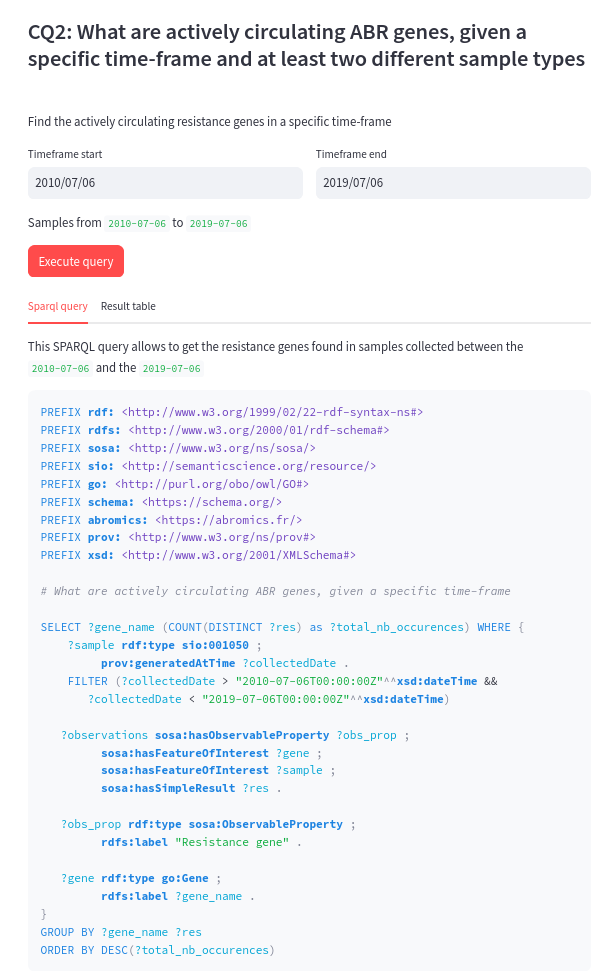
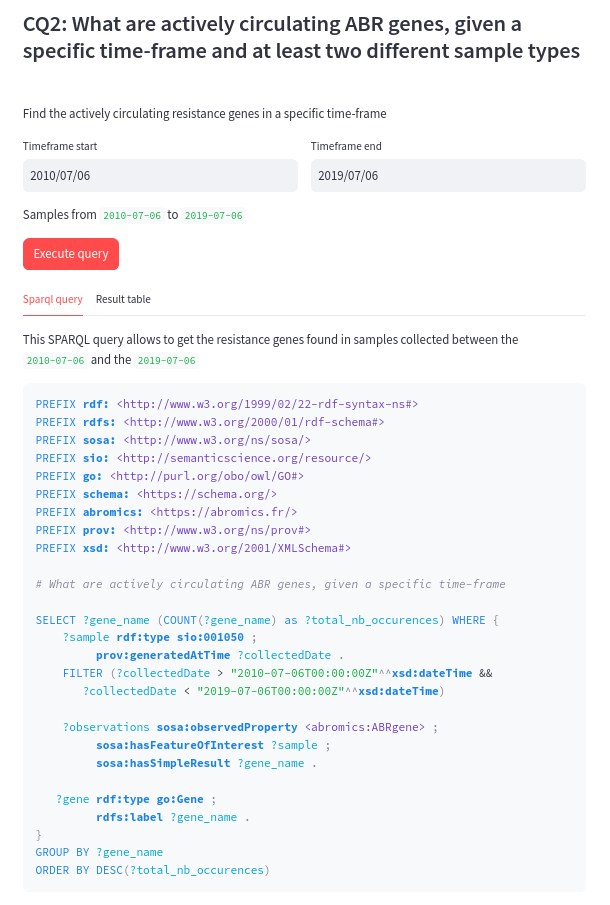
build: fixing all the images and the queries in the app to reflect the queries stored in the queries directory

Changed region(s): [[0.0311, 0.0, 0.9656, 0.9901]]

diff --git a/src/app.py b/src/app.py
@@ -119,19 +119,19 @@ query1 = f"""
     # CQ1: What are the most represented antibiotic resistance genes in a specific geographical region of interest ?
     
     SELECT ?gene_name ?location_name (COUNT(?gene_name) as ?count) WHERE {{
+
         ?sample rdf:type sio:001050 ;
             schema:identifier ?sample_id ;
             prov:atLocation ?location .
-    
-        ?obs_prop rdf:type sosa:ObservableProperty ;
-            rdfs:label "Resistance gene" . 
-    
-        ?observations sosa:hasObservableProperty ?obs_prop ;
-            sosa:hasFeatureOfInterest ?sample .
-    
-        ?gene rdf:type go:Gene ;
-            rdfs:label ?gene_name .
-    
+  
+        ?observations rdf:type sosa:Observation ;
+                      sosa:observedProperty <abromics:ABRgene> ;
+  	    			  sosa:hasFeatureOfInterest ?sample ;
+          			  sosa:hasSimpleResult ?gene_name .
+        
+  	    ?gene rdf:type go:Gene ;
+                rdfs:label ?gene_name .
+
         # fetch the id corresponding to the targeted location
         SERVICE <https://query.wikidata.org/sparql> {{
             ?location wdt:P31 wd:Q6256 .
@@ -156,18 +156,15 @@ query2 = f"""
     
     # What are actively circulating ABR genes, given a specific time-frame
     
-    SELECT ?gene_name (COUNT(DISTINCT ?gene_name) as ?total_nb_occurences) WHERE {{
+    SELECT ?gene_name (COUNT(?gene_name) as ?total_nb_occurences) WHERE {{
         ?sample rdf:type sio:001050 ;
              prov:generatedAtTime ?collectedDate .
         FILTER (?collectedDate > "{st.session_state.startTime}T00:00:00Z"^^xsd:dateTime && 
            ?collectedDate < "{st.session_state.endTime}T00:00:00Z"^^xsd:dateTime)
     
-       ?observations sosa:hasObservableProperty ?obs_prop ;
+        ?observations sosa:observedProperty <abromics:ABRgene> ;
              sosa:hasFeatureOfInterest ?sample ;
              sosa:hasSimpleResult ?gene_name .
-    
-       ?obs_prop rdf:type sosa:ObservableProperty ;
-             rdfs:label "Resistance gene" .
     
        ?gene rdf:type go:Gene ;
              rdfs:label ?gene_name .
@@ -177,6 +174,9 @@ query2 = f"""
 """
 
 query3 = f"""
+    ## Warning:
+    ## This request needs a rework
+    ##
     PREFIX rdf: <http://www.w3.org/1999/02/22-rdf-syntax-ns#>
     PREFIX rdfs: <http://www.w3.org/2000/01/rdf-schema#>
     PREFIX sosa: <http://www.w3.org/ns/sosa/>
@@ -199,7 +199,7 @@ query3 = f"""
         ?gene rdf:type go:Gene ;
             rdfs:label ?gene_name .
                     
-        ?observations sosa:hasObservableProperty ?obs_prop ;
+        ?observations sosa:observedProperty ?obs_prop ;
             sosa:hasFeatureOfInterest ?gene ;
             sosa:hasFeatureOfInterest ?sample ;
             sosa:hasResult/sosa:hasSimpleResult ?res .
@@ -359,10 +359,13 @@ st.markdown(
 st.markdown('<a id="kg-structure"></a>', unsafe_allow_html=True)
 st.header("2. Knowledge graph structure")
 
-st.image("assets/figure-1.png", caption="RDF instances for the sample metadata")
+st.markdown("")
 
-st.image("assets/figure-2.png", caption="RDF instances for the data analysis results")
+st.image("assets/Figure-1.png", caption="RDF instances for the sample metadata")
 
+st.markdown("")
+
+st.image("assets/Figure-2.png", caption="RDF instances for the data analysis results")
 
 st.markdown('<a id="demo-queries"></a>', unsafe_allow_html=True)
 st.header("3. Execute demo queries")
